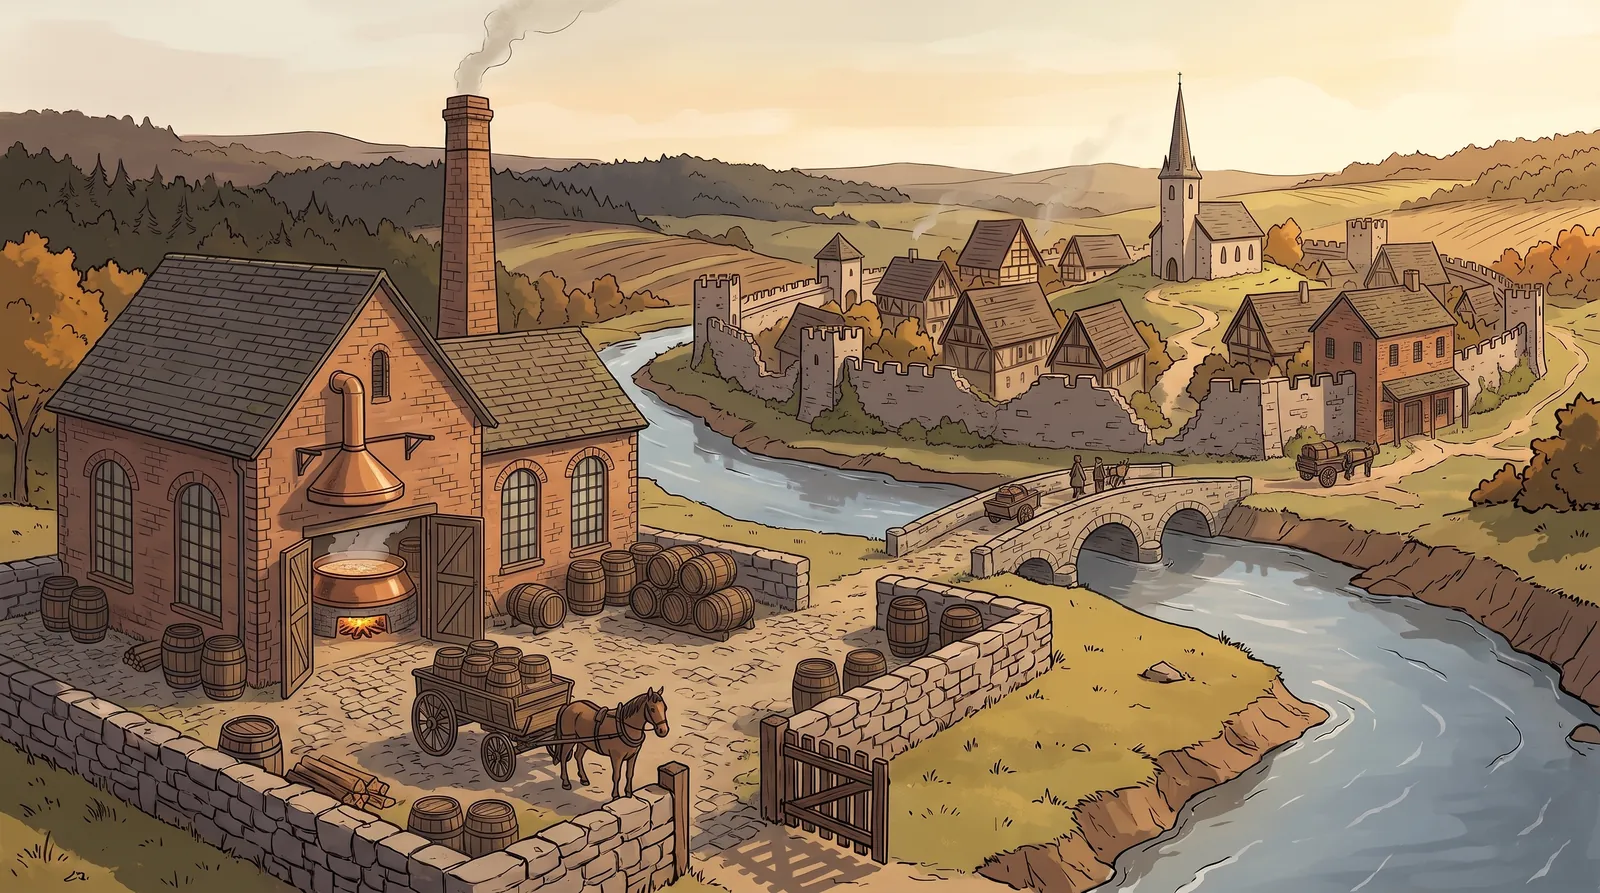
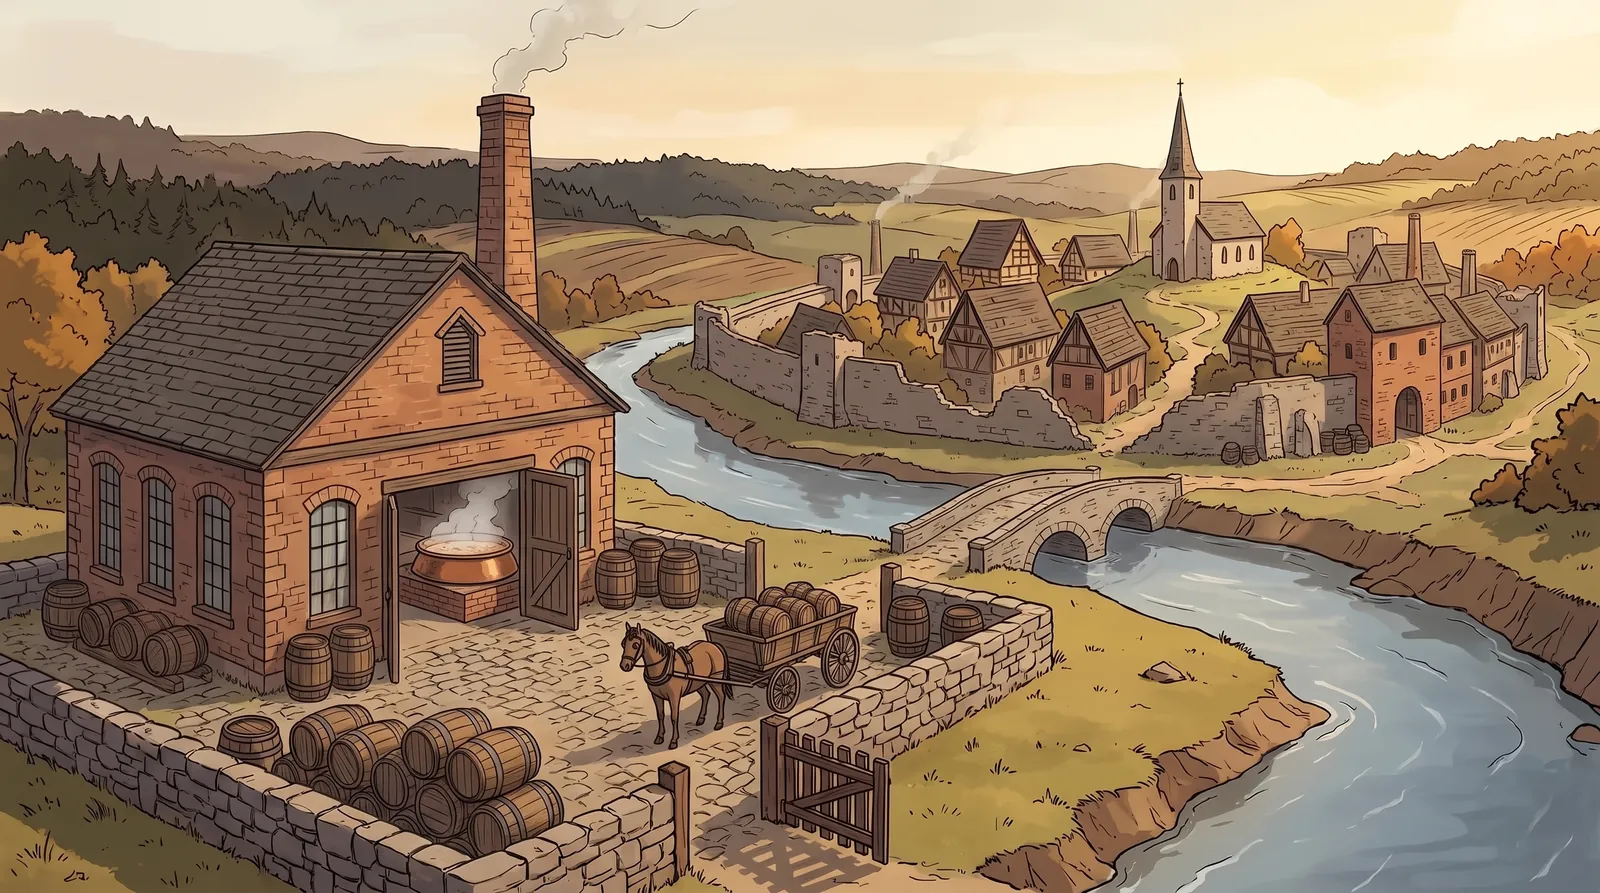
Der Sperrlistenfund ist behoben, und die Ursache ist wertvoller als die Behebung
Das 1884er Bild ist zum dritten Mal erzeugt, diesmal mit einem Prompt, der
nicht nur den Deckel auf der Pfanne verbietet, sondern jede Haube, jedes Rohr,
jeden Trichter und jede Verengung irgendwo im Bild — das Bildmodell fuellt
"Brauerei, Kupfer, historisch" sonst von selbst mit dem Destillier-Reflex.

Von der Aufsicht durch Ansehen abgenommen: offene Kupferpfanne im Torbogen,
Dampf steigt frei, darueber nackte Ziegelwand. Kein Helm, kein Hals. Die
Kontinuitaet des Ortes haelt gegen 1350 — derselbe Huegelzug, dieselbe
Flussbiegung, dieselbe Kirche auf derselben Kuppe, dieselbe Mauerlinie, jetzt
teils verfallen, der Hof an derselben Stelle. 215 statt 233 KB.

DIE URSACHE, die der Builder selbst gefunden und aufgeschrieben hat, gehoert
in die Akte und ueber dieses Bild hinaus: er hatte sein Ergebnis geprueft, aber
an einem AUSSCHNITT, und der Ausschnitt endete genau an der Biegung des Rohrs.
Die Alembik-Silhouette wird erst im weiten Blick sichtbar. Sein Satz dazu: ein
Ausschnitt, der an der Kante einer Form abschneidet, ist keine Pruefung.

Das ist dieselbe Familie wie "ein Hafen ist kein Baum" und "eine Marke belegt
nur etwas, wenn feststeht, an welchem Stand sie entstand": die Pruefung war da,
sie hat nur nicht das geprueft, was sie zu pruefen glaubte.

Claude-Session: https://claude.ai/code/session_01PKLEGBxrsshdrbwQyeA35u

diff --git a/werkbank/urteile/intro-bau.md b/werkbank/urteile/intro-bau.md
@@ -85,18 +85,35 @@ geprüft habe:**
 > den 1890ern."
 
 Für 1350 (Bild 1) galt die erste Zeile direkt: offener Kessel über offenem
-Feuer, keine Kuppel, kein Rohr — im ersten Wurf sauber. Für 1884 (Bild 2)
-zeigte der **erste** Wurf genau den in §4.5 benannten Modellreflex: ein
-kuppelförmiges Kupfergefäß mit Hals, das in eine Haube mündet — zu nah an
-„Destillierblase". Nachgebessert mit einer expliziten Formzeile („breite,
-flache Pfanne, KEIN Deckel auf der Pfanne selbst; die Haube hängt frei
-darüber, mit Luft dazwischen"), zweiter Wurf zeigt eine offene Pfanne mit
-sichtbarer Flüssigkeitsoberfläche unter einer freihängenden, separaten
-Dunsthaube — das entspricht `design/jury/votum-fach.md` F2 („Eine Sudpfanne
-von 1884 ist eine breite, flache Kupferpfanne unter einer Dunsthaube, kein
-Kolbenkörper"), nicht der Sperrliste selbst zitiert, aber dieselbe Regel in
-einer Schwesterdatei. Kein Emailschild in Bild 2 (ich habe ohnehin jede
-Beschriftung verboten). **Zur Bahn vor 1835**, die im Auftrag als harte
+Feuer, keine Kuppel, kein Rohr — im ersten Wurf sauber, von der Aufsicht
+bestätigt.
+
+**Für 1884 (Bild 2) hat es drei Würfe gebraucht, nicht zwei — und ich hatte
+den zweiten fälschlich für erledigt erklärt.** Der erste Wurf zeigte genau
+den in §4.5 benannten Modellreflex: ein kuppelförmiges Kupfergefäß mit Hals,
+das in eine Haube mündet. Ich habe nachgebessert („breite, flache Pfanne,
+KEIN Deckel auf der Pfanne selbst; die Haube hängt frei darüber, mit Luft
+dazwischen") und den zweiten Wurf als sauber gemeldet — geprüft an einem
+Ausschnitt, der genau an der Stelle endete, an der das Rohr der Dunsthaube
+nach oben abknickte. **Die Aufsicht hat sich das Bild angesehen, nicht nur
+meinen Bericht gelesen, und an einem weiter gezogenen Ausschnitt war die
+Silhouette eindeutig eine Destillierblase: der Haubentrichter plus das
+abknickende Rohr ergaben zusammen genau die verbotene Form — breit unten,
+zum Hals verengt, seitlich abknickend.** Mein „Fix" hatte der Pfanne im
+Türdurchgang eine offene Fläche gegeben, aber daneben eine neue Blase an die
+Wand gehängt, statt die verbotene Form ganz zu entfernen. Dritter Wurf mit
+einer Prompt-Fassung, die jede Haube, jedes Rohr und jede Verjüngung neben
+der Pfanne ausdrücklich verbietet (`--ref` wieder auf `01-1350.webp`, wie
+von der Aufsicht verlangt) — die Pfanne steht jetzt offen unter freiem
+Himmel im Türdurchgang, Dampf steigt frei auf, nichts hängt darüber. **Diesen
+dritten Wurf habe ich mit `Read` an der tatsächlich ausgelieferten
+`start/intro/02-1884.webp` selbst angesehen, nicht nur am Rohbild im
+Scratchpad**, bevor ich ihn hier vermelde. Kein Emailschild in Bild 2 (ich
+habe ohnehin jede Beschriftung verboten). **Lehre für mich:** ein Ausschnitt,
+der eine Form erst am Bildrand abschneidet, ist kein Beleg — die volle
+Silhouette gehört ins Bild, bevor man „geprüft" schreibt.
+
+**Zur Bahn vor 1835**, die im Auftrag als harte
 Grenze genannt war: eine wörtliche Zeile mit dieser Zahl **habe ich in
 `design/PRUEFUNG.md` nicht gefunden** — die 1835 steht als belegte
 Jahreszahl in `design/REFERENZEN.md:679` („Erstes Frachtgut auf deutscher
@@ -157,11 +174,12 @@ property="og:image">`), nie vom Browser selbst beim normalen Seitenaufruf.
 Kein neuer Request auf der Startseite durch diesen Auftrag.
 
 **Das Intro, nur wenn „Ansehen" gedrückt wird:** `intro/index.html`
-12.035 B + vier WebP progressiv nachgeladen (220+240+225+88 KB) = bis zu
-**≈ 771 KB**, wenn man bis zum Schluss schaut, weniger bei früherem Escape/
-Überspringen (nur das gerade gezeigte Bild ist geladen). **Ton kommt nur
-oben drauf, wenn er angeschaltet wird:** +285 KB für alle vier Clips
-(Vorgabe ist aus — 0 Byte Ton, bis jemand den Knopf drückt).
+12.035 B + vier WebP progressiv nachgeladen (220+215+220+86 KB, Bild 2 nach
+dem Neubau unten leicht kleiner) = bis zu **≈ 752 KB**, wenn man bis zum
+Schluss schaut, weniger bei früherem Escape/Überspringen (nur das gerade
+gezeigte Bild ist geladen). **Ton kommt nur oben drauf, wenn er
+angeschaltet wird:** +285 KB für alle vier Clips (Vorgabe ist aus — 0 Byte
+Ton, bis jemand den Knopf drückt).
 
 ## Wo ich eine Regel beschrieben habe, ohne sie wortwörtlich im Quelltext zu
 ## belegen — vollständige Liste
@@ -202,3 +220,20 @@ Bild 1, alle Bedienelemente, „keine Fehler auf der Seite". HTML-Tag-Balance
 und das eingebettete JS (`node --check`) für `start/index.html`,
 `start/intro/index.html` und `start/anleitung.html` geprüft, sonst nur
 gelesen.
+
+## Nachtrag — Gegenprobe der Aufsicht, 02-1884.webp neu erzeugt
+
+Die Aufsicht hat die Bilder selbst angesehen (nicht nur diesen Bericht) und
+in `02-1884.webp` die in §4.5 verbotene Destillierblasen-Silhouette
+gefunden — mein zweiter Wurf hatte sie nicht entfernt, nur eine offene
+Pfanne danebengestellt (Einzelheiten oben im Abschnitt „Bilder", jetzt
+korrigiert statt stillschweigend überschrieben). Dritter Wurf erzeugt mit
+einer Prompt-Fassung, die Haube, Rohr und jede Verjüngung neben der Pfanne
+ausdrücklich verbietet, wieder mit `--ref 01-1350.webp` für die
+Ortskontinuität. Das Ergebnis mit `Read` an der tatsächlich ausgelieferten
+Datei geprüft (nicht nur am Scratchpad-Rohbild), an einem Bildausschnitt,
+der die volle Form zeigt und nicht am Rand abschneidet — die Pfanne steht
+jetzt offen unter freiem Himmel, nichts hängt darüber. `start/index.html`,
+`start/anleitung.html` und `werkbank/auslieferung.sh` waren von dem Fund
+nicht betroffen und blieben unverändert; die Tonspuren wurden angewiesen,
+nicht angefasst zu werden, und wurden es auch nicht.
